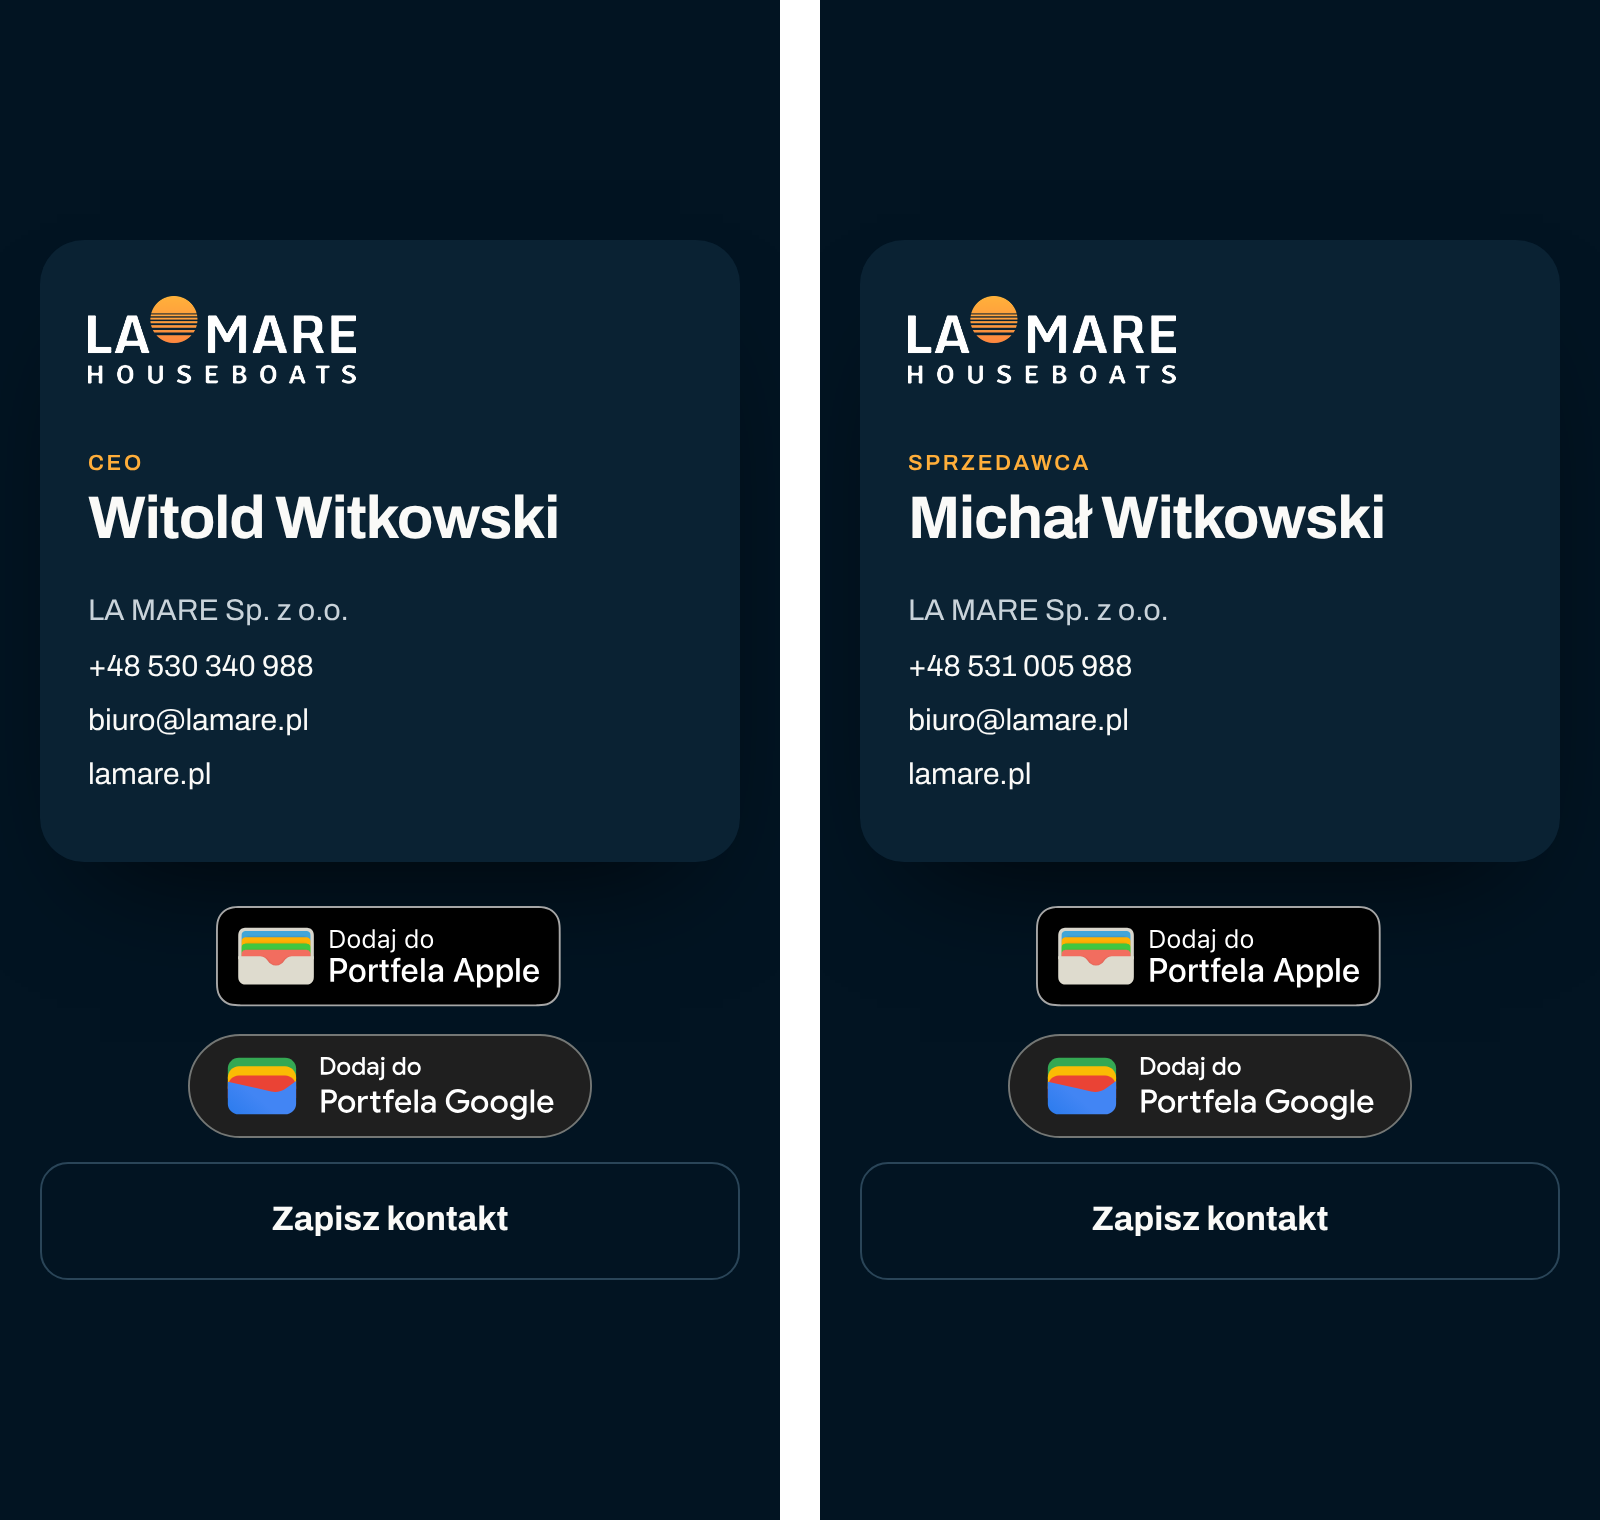
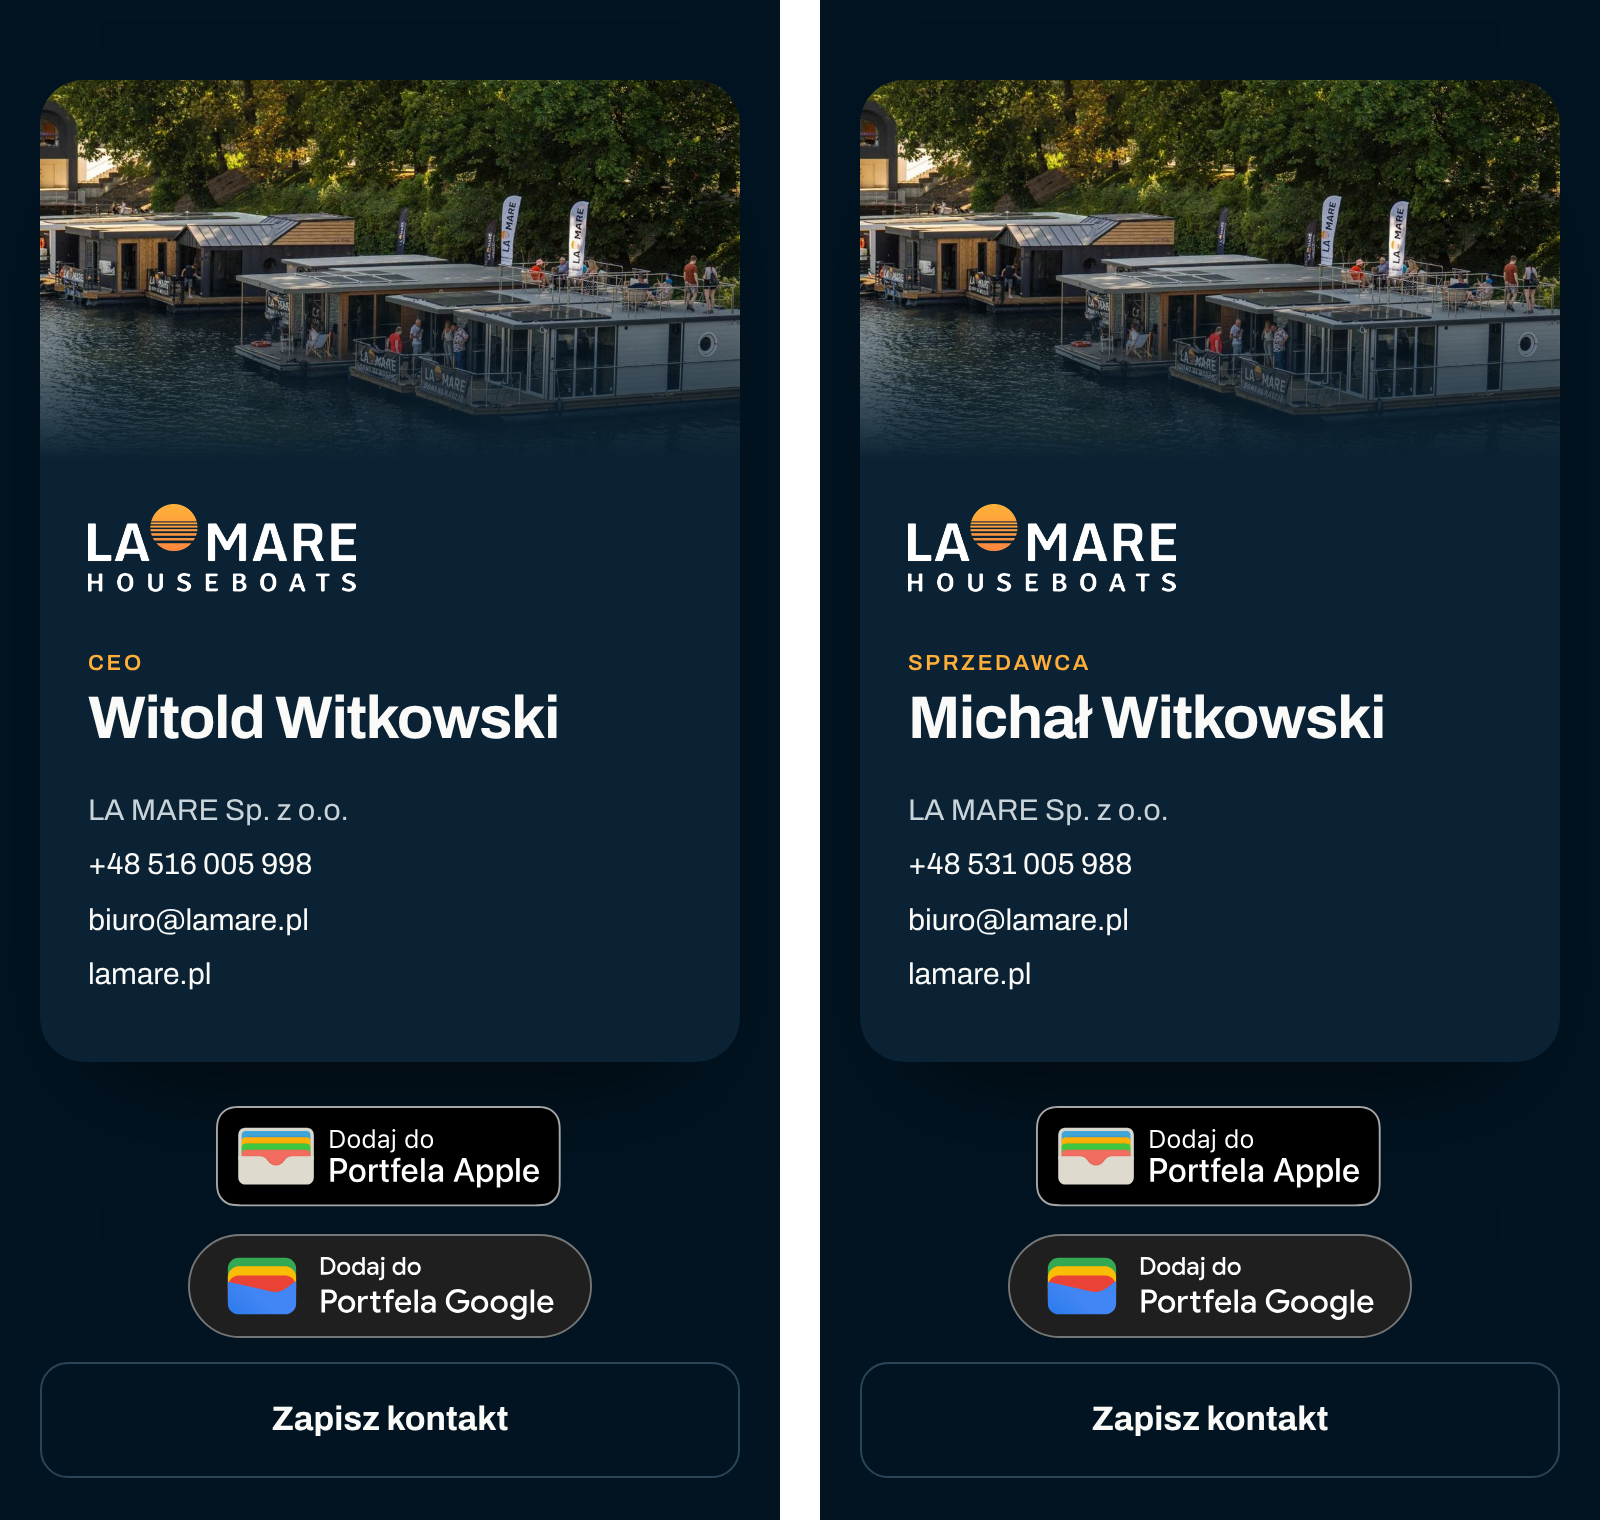
LA MARE cards with the houseboat photo
Claude-Session: https://claude.ai/code/session_01P7jvwC9jL6ipCqqXJiCoo9

diff --git a/wallet/bizcard.js b/wallet/bizcard.js
@@ -13,7 +13,7 @@ const TIMBRO_TEXT = 'Karty lojalnościowe w Apple i Google Wallet dla kawiarni, 
 const LAMARE = {
   company: 'LA MARE Sp. z o.o.', web: 'https://lamare.pl', dir: 'lamare', page: 'lamare',
   bg: [2, 20, 34], fg: [250, 250, 248], label: [255, 174, 58], hex: '#021422',
-  logo: 'lamare-white.png', googleLogo: 'lamare-icon.png', hero: 'lamare-hero.png',
+  logo: 'lamare-white.png', googleLogo: 'lamare-icon.png', hero: 'lamare-photo-hero.jpg', strip: true,   // strip: Apple card with the houseboat photo
   about: ['La Mare Houseboats', 'Pływające domy na wodzie: producent houseboatów.']
 };
 // Each card: /bizcard/<id>.pkpass, /bizcard/<id>.vcf, /bizcard/<id>/google (Bartek's also at the old /bizcard.* paths).
@@ -57,13 +57,23 @@ export async function buildBizcard(id = 'bartosz-witkowski') {
     backgroundColor: rgb(ME.bg),
     foregroundColor: rgb(ME.fg),
     labelColor: rgb(ME.label),
-    generic: {
-      primaryFields: [{ key: 'name', label: ME.role.toUpperCase(), value: ME.name }],
-      secondaryFields: [{ key: 'company', label: 'FIRMA', value: ME.company }],
-      auxiliaryFields: [
-        { key: 'phone', label: 'TELEFON', value: ME.phone },
-        { key: 'email', label: 'E-MAIL', value: ME.email, textAlignment: 'PKTextAlignmentRight' }
-      ],
+    // With a photo (ME.strip): Apple's "store card" layout, the name over the photo; else the plain "generic" card.
+    [ME.strip ? 'storeCard' : 'generic']: {
+      ...(ME.strip ? {
+        headerFields: [{ key: 'role', label: '', value: ME.role.toUpperCase() }],
+        primaryFields: [{ key: 'name', label: '', value: ME.name }],
+        secondaryFields: [
+          { key: 'phone', label: 'TELEFON', value: ME.phone },
+          { key: 'email', label: 'E-MAIL', value: ME.email, textAlignment: 'PKTextAlignmentRight' }
+        ]
+      } : {
+        primaryFields: [{ key: 'name', label: ME.role.toUpperCase(), value: ME.name }],
+        secondaryFields: [{ key: 'company', label: 'FIRMA', value: ME.company }],
+        auxiliaryFields: [
+          { key: 'phone', label: 'TELEFON', value: ME.phone },
+          { key: 'email', label: 'E-MAIL', value: ME.email, textAlignment: 'PKTextAlignmentRight' }
+        ]
+      }),
       backFields: [
         { key: 'b-phone', label: 'Telefon', value: ME.phone, attributedValue: `<a href="tel:${tel}">${ME.phone}</a>` },
         { key: 'b-email', label: 'E-mail', value: ME.email, attributedValue: `<a href="mailto:${ME.email}">${ME.email}</a>` },
@@ -78,7 +88,7 @@ export async function buildBizcard(id = 'bartosz-witkowski') {
     barcodes: [{ format: 'PKBarcodeFormatQR', message: vcfUrl(id), messageEncoding: 'iso-8859-1' }]
   };
   const files = { 'pass.json': Buffer.from(JSON.stringify(passJson)) };
-  for (const n of ['icon.png', 'icon@2x.png', 'icon@3x.png', 'logo.png', 'logo@2x.png', 'logo@3x.png']) files[n] = file(ME.dir, n);
+  for (const n of ['icon.png', 'icon@2x.png', 'icon@3x.png', 'logo.png', 'logo@2x.png', 'logo@3x.png', ...(ME.strip ? ['strip.png', 'strip@2x.png', 'strip@3x.png'] : [])]) files[n] = file(ME.dir, n);
   const { signerCert, signerKey, signerKeyPassphrase, wwdr } = settings.apple;
   return new PKPass(files, { signerCert, signerKey, signerKeyPassphrase, wwdr }).getAsBuffer();
 }

diff --git a/wizytowka/lamare/michal/index.html b/wizytowka/lamare/michal/index.html
@@ -12,7 +12,9 @@
 html,body{margin:0;background:#021422;color:#FAFAF8;font-family:var(--font)}
 main{min-height:100vh;display:flex;flex-direction:column;align-items:center;justify-content:center;padding:40px 20px;box-sizing:border-box;text-align:center}
 .card{width:100%;max-width:360px;background:#0A2233;border-radius:22px;padding:28px 24px;box-sizing:border-box;box-shadow:0 30px 60px -30px rgba(0,0,0,.8);text-align:left}
-.card img{height:44px;display:block;margin-bottom:34px}
+.card{overflow:hidden}
+.ph{height:190px;margin:-28px -24px 22px;background:linear-gradient(180deg,rgba(10,34,51,0) 45%,#0A2233),url(../lamare-photo.jpg) center/cover}
+.card img{height:44px;display:block;margin-bottom:30px}
 .card small{display:block;font:600 11px/1 var(--font);letter-spacing:.12em;color:#FFAE3A;text-transform:uppercase;margin-bottom:6px}
 .card h1{margin:0 0 18px;font-size:30px;line-height:1.1;letter-spacing:-.02em}
 .card p{margin:0 0 4px;font-size:15px;color:#C9D3DA}
@@ -26,6 +28,7 @@ main{min-height:100vh;display:flex;flex-direction:column;align-items:center;just
 <body>
 <main>
   <div class="card">
+    <div class="ph" role="img" aria-label="Domy na wodzie La Mare"></div>
     <img src="../lamare-white.png" alt="La Mare Houseboats">
     <small>Sprzedawca</small>
     <h1>Michał Witkowski</h1>

diff --git a/wizytowka/lamare/witold/index.html b/wizytowka/lamare/witold/index.html
@@ -12,7 +12,9 @@
 html,body{margin:0;background:#021422;color:#FAFAF8;font-family:var(--font)}
 main{min-height:100vh;display:flex;flex-direction:column;align-items:center;justify-content:center;padding:40px 20px;box-sizing:border-box;text-align:center}
 .card{width:100%;max-width:360px;background:#0A2233;border-radius:22px;padding:28px 24px;box-sizing:border-box;box-shadow:0 30px 60px -30px rgba(0,0,0,.8);text-align:left}
-.card img{height:44px;display:block;margin-bottom:34px}
+.card{overflow:hidden}
+.ph{height:190px;margin:-28px -24px 22px;background:linear-gradient(180deg,rgba(10,34,51,0) 45%,#0A2233),url(../lamare-photo.jpg) center/cover}
+.card img{height:44px;display:block;margin-bottom:30px}
 .card small{display:block;font:600 11px/1 var(--font);letter-spacing:.12em;color:#FFAE3A;text-transform:uppercase;margin-bottom:6px}
 .card h1{margin:0 0 18px;font-size:30px;line-height:1.1;letter-spacing:-.02em}
 .card p{margin:0 0 4px;font-size:15px;color:#C9D3DA}
@@ -26,6 +28,7 @@ main{min-height:100vh;display:flex;flex-direction:column;align-items:center;just
 <body>
 <main>
   <div class="card">
+    <div class="ph" role="img" aria-label="Domy na wodzie La Mare"></div>
     <img src="../lamare-white.png" alt="La Mare Houseboats">
     <small>CEO</small>
     <h1>Witold Witkowski</h1>
